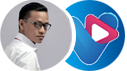
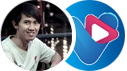
Irawan

diff --git a/index.html b/index.html
@@ -4,7 +4,7 @@
 <head>
 <meta charset="UTF-8">
 <meta name="viewport" content="width=device-width, initial-scale=1.0">
-<title>Daftar VTube -  Hendra Said</title>
+<title>Daftar VTube - Irawan Fuzha</title>
 <link rel="icon" type="image/png" href="favicon-32x32.png" sizes="32x32" />
 <link rel="icon" type="image/png" href="favicon-16x16.png" sizes="16x16" />
 <link rel="stylesheet" href="assets/plugin/bootstrap/bootstrap.min.css">
@@ -14,9 +14,9 @@
 
         <!-- HTML Meta Tags -->
         <title>Daftar VTube</title>
-        <meta name="description" content="Daftar Vtube, VTube adalah platform video hiburan yang membayar membernya. Dapatkan bonus dan penawaran menarik hanya di vtube-leader.site.">
+        <meta name="description" content="Daftar Vtube, VTube adalah platform video hiburan yang membayar membernya. Dapatkan bonus dan penawaran menarik hanya di daftarvtube.website.">
         <meta name="keywords" content="vtube, daftar vtube, registrasi vtube, vtube terbaru, aplikasi">
-        <meta name="author" content="Eko Ruswanto">
+        <meta name="author" content="Irawan Fuzha">
 
         <!-- Facebook Meta Tags -->
         <meta property="og:url" content="https://vtube-leader.site">
@@ -131,62 +131,42 @@ GRATIS & TIDAK <u class="text-yellow">mengeluarkan uang kita</u>.
 <div id="testimonial-slider" class="carousel slide" data-ride="carousel">
 <div class="carousel-inner">
 <div class="carousel-item active">
-<div class="text-darkgrey lh-9">“Great Application. Aplikasi keren... ternyata benar-benar menghasilkan.. Semoga bisa ada fitur games ke depannya.. hehehe... Be Diamond !”</div>
+<div class="text-darkgrey lh-9">“Hanya dengan Five Minutes anda menonton dan anda mendapat penghasilan, ini sangat nyata, anda bisa mendapatkan penghasilan dari setiap yang anda tonton.”</div>
 <div class="media mt-3">
-<img src="https://lh3.googleusercontent.com/a-/AOh14GgG5djQHdLPnFGYM0t5OkqTdczUXN9Wmq4HArFTkA=w48-h48-n-rw" class="testimonial-photo" alt="...">
+<img src="assets/img/sendy.png" class="testimonial-photo" alt="...">
 <div class="media-body">
-<h5 class="my-0 text-bold lh-3">Hanggari Shandy</h5>
-<div class="text-xs soft-8">VTube User</div>
+<h5 class="my-0 text-bold lh-3">Sendy Jt </h5>
+<div class="text-xs soft-8">Vocal Coach - Diamond Member</div>
 </div>
 </div>
 </div>
 <div class="carousel-item">
-<div class="text-darkgrey lh-9">"Terobosan bisnis yang paling mudah dilakukan.. Hanya di vtube nonton video di bayar.. Jaya trus vtube.."</div>
+<div class="text-darkgrey lh-9">"Saya merasa bisnis ini satu-satunya tanpa modal bagiku dan gimana hal kecil bisa dihargai sedemikian rupa..dan satu hal positif dari vtube ini harus buat referal kita naik dulu baru kita juga naik klo berhasil mengembangkan tim."</div>
 <div class="media mt-3">
-<img src="https://lh3.googleusercontent.com/a-/AOh14GiYxhpcPnRmUDVAhVd0XoLfAvonAuXDul6yiBYXtg=w48-h48-n-rw" class="testimonial-photo" alt="...">
+<img src="assets/img/Viana.png" class="testimonial-photo" alt="...">
 <div class="media-body">
-<h5 class="my-0 text-bold lh-3">Guntur Tata Laksono</h5>
-<div class="text-xs soft-8">VTube User</div>
+<h5 class="my-0 text-bold lh-3">Viana Lie</h5>
+<div class="text-xs soft-8">Youtuber - Silver Member</div>
 </div>
 </div>
 </div>
 <div class="carousel-item">
-<div class="text-darkgrey lh-9">"VTube App Great"</div>
+<div class="text-darkgrey lh-9">"Semenjak saya sepenuh hati menjalankan bisnis Vtube, saya bisa mendapatkan penghasilan tambahan yang sangat membantu perekonomian keluarga contohnya saya bisa membayar pinjaman hutang. Thank God&Vtube."</div>
 <div class="media mt-3">
-<img src="https://lh3.googleusercontent.com/a-/AOh14Gg3yd5x8ReEm4ToQ-3XFiNSU_4K6hB6YayehnH7Ng=w48-h48-n-rw" class="testimonial-photo" alt="...">
+<img src="assets/img/tri.png" class="testimonial-photo" alt="...">
 <div class="media-body">
-<h5 class="my-0 text-bold lh-3">Deasy Kalesaran</h5>
-<div class="text-xs soft-8">VTube User</div>
+<h5 class="my-0 text-bold lh-3">Tri Novidianto</h5>
+<div class="text-xs soft-8">Teacher - Silver Member</div>
 </div>
 </div>
 </div>
 <div class="carousel-item">
-<div class="text-darkgrey lh-9">"Aplikasi yang membantu sekali saat kita dirumah dan mendapatkan penghasilan lumayan hanya dengan menonton iklan saja udah dapat. Yuk buruan daftar guys nanti nyesel ga daftar"</div>
+<div class="text-darkgrey lh-9">"Bisnis usaha tanpa modal dengan hasil nyata yang banyak membantu sesama di masa pandemi. Kecanggihan sistem blockchain serta keamanan data membuat nyaman bertransaksi."</div>
 <div class="media mt-3">
-<img src="https://lh3.googleusercontent.com/a-/AOh14GjfveEvjvBvHkP8KW8cR2t0nEYFILExdwKJ-sVR=w48-h48-n-rw" class="testimonial-photo" alt="...">
+<img src="assets/img/Vina.png" class="testimonial-photo" alt="...">
 <div class="media-body">
-<h5 class="my-0 text-bold lh-3">kevin pagoray</h5>
-<div class="text-xs soft-8">VTube User</div>
-</div>
-</div>
-</div>
-<div class="carousel-item">
-<div class="text-darkgrey lh-9">"Aplikasi ini benar benar MERUBAH kehidupan saya. Awalnya cari income 500 ribu sehari aja sulitnya Minta ampunnnn. Sekarang Incone 7-10 juta per hari Hanya dalam waktu 1 Bulan setengah. Benar benar DAHSYATT aplikasi ini 🤩"</div>
-<div class="media mt-3">
-<img src="https://lh3.googleusercontent.com/a-/AOh14GhhbBIClCLq2o0GWlXl4rtfZ-cAIsvqxOkRRkA_=w48-h48-n-rw" class="testimonial-photo" alt="...">
-<div class="media-body">
-<h5 class="my-0 text-bold lh-3">SImmanuel Revo</h5>
-<div class="text-xs soft-8">VTube User</div>
-</div>
-</div>
-</div>
-<div class="carousel-item">
-<div class="text-darkgrey lh-9">"Very good. I love it Vtube 😍😘😘😘 By Memey (Vtube Elite Speaker)"</div>
-<div class="media mt-3">
-<img src="https://lh3.googleusercontent.com/a-/AOh14GgKFfWLb7tX7Ih7G8AOcQT3JSEWs1YYPOkIqFRq2w=w48-h48-n-rw" class="testimonial-photo" alt="...">
-<div class="media-body">
-<h5 class="my-0 text-bold lh-3">memey paramitha</h5>
-<div class="text-xs soft-8">VTube User</div>
+<h5 class="my-0 text-bold lh-3">Vinawati</h5>
+<div class="text-xs soft-8">Finance - Silver Member</div>
 </div>
 </div>
 </div>
@@ -445,9 +425,9 @@ Kalian akan dibantu mendapatkan<span class="text-yellow"> 10 Referal Pertama</sp
 <div class="card-body">
 <div class="px-2 px-md-4 pb-4">
 <h4 class="mt-4">Expert Leader VTube</h4>
-<h2 class="text-primary text-bold">Hendra Said</h2>
+<h2 class="text-primary text-bold">Irawan Fuzha</h2>
 <img src="assets/img/fuzha.png" alt="">
-<a href="https://api.whatsapp.com/send?phone=6281344626553&text=Saya%20mau%20daftar%20VTube%20kak!!!" target="_blank">
+<a href="https://api.whatsapp.com/send?phone=6288803145428&text=Saya%20mau%20daftar%20VTube%20kak!!!" target="_blank">
 <button class="btn btn-lg btn-warning btn-block mt-4">
 Daftar Sekarang
 </button>
@@ -519,7 +499,7 @@ Daftar Sekarang
 <div class="faq">
      <h5 data-toggle="collapse" data-target="#faq-6">Kurang menjawab pertanyaan lain?</h5>
         <div id="faq-6" data-parent="#faq" class="answer collapse">
-        <div class="text-sm faq-answer">Pertanyaan lain bisa di tanyakan ke <a href="https://api.whatsapp.com/send?phone=6283857521484&text=Hallo%20kak,%20saya%20mau%20tanya!" target="_blank" class="text-soft soft-6">@tridito</a></div>
+        <div class="text-sm faq-answer">Pertanyaan lain bisa di tanyakan ke <a href="https://api.whatsapp.com/send?phone=6288803145428&text=Hallo%20kak,%20saya%20mau%20tanya?" target="_blank" class="text-soft soft-6">Irawan Fuzha</a></div>
     </div>
 </div>
 </div>
@@ -536,7 +516,7 @@ Daftar Sekarang
 </div>
 <div class="col-sm-8 pl-0 my-auto">
 <h5 class="text-light soft-6 mb-0 mt-2 mt-sm-0">Sampai jumpa di member area</h5>
-VTube leader Hendra Said
+VTube leader Irawan Fuzha
 </div>
 </div>
 </div>
@@ -546,6 +526,24 @@ Website ini merupakan web support sebagai media promosi - Dibuat oleh <a href="h
 </div>
 </div>
 </footer>
+
+
+
+<!--Start of Tawk.to Script-->
+<script type="text/javascript">
+    var Tawk_API=Tawk_API||{}, Tawk_LoadStart=new Date();
+    (function(){
+    var s1=document.createElement("script"),s0=document.getElementsByTagName("script")[0];
+    s1.async=true;
+    s1.src='https://embed.tawk.to/5ef4854f9e5f69442291488f/default';
+    s1.charset='UTF-8';
+    s1.setAttribute('crossorigin','*');
+    s0.parentNode.insertBefore(s1,s0);
+    })();
+    </script>
+    <!--End of Tawk.to Script-->
+
+
 <script type="text/javascript" src="assets/plugin/jquery/jquery-3.1.0.min.js"></script>
 <script type="text/javascript" src="assets/plugin/bootstrap/bootstrap.bundle.min.js"></script>
 <script type="text/javascript" src="assets/plugin/youtube-popup/youtube-popup.jquery.js"></script>
